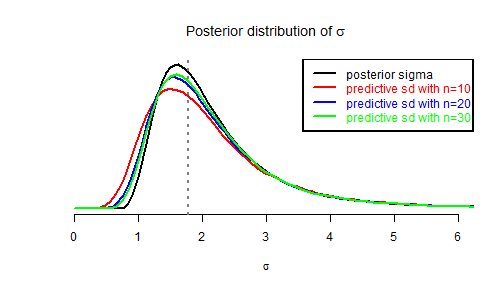
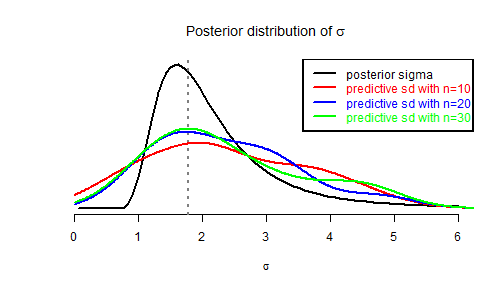
detail

Changed region(s): [[0.1488, 0.25, 0.8929, 0.75], [0.9226, 0.6875, 0.9524, 0.7188], [0.8929, 0.7188, 0.9226, 0.75]]

diff --git a/posts/samplesize_mean.html b/posts/samplesize_mean.html
@@ -236,7 +236,7 @@ over the posterior distribution of \(\sigma\) which is given by
 
 <p>Thus the posterior predictive distribution of \(sd(y^{\text{new}})\) is very easy to simulate:</p>
 
-<pre><code class="r">nsims &lt;- 120000
+<pre><code class="r">nsims &lt;- 12
 sdnew.sims &lt;- array(NA, dim = c(nsims, length(n.range)))
 colnames(sdnew.sims) &lt;- names(n.range)
 for (i in 1:nsims) {
@@ -271,11 +271,11 @@ legend(&quot;topright&quot;, legend = c(&quot;posterior sigma&quot;, legend1, le
 </code></pre>
 
 <pre><code>##   n=3   n=4   n=5   n=6   n=7   n=8   n=9  n=10  n=11  n=12  n=13  n=14 
-## 2.822 2.815 2.820 2.819 2.810 2.814 2.813 2.812 2.798 2.802 2.807 2.803 
+## 3.383 3.289 3.741 3.573 2.790 2.832 3.676 3.480 3.646 3.160 3.452 3.483 
 ##  n=15  n=16  n=17  n=18  n=19  n=20  n=21  n=22  n=23  n=24  n=25  n=26 
-## 2.800 2.799 2.804 2.801 2.802 2.798 2.803 2.796 2.797 2.793 2.794 2.797 
+## 3.978 3.520 3.867 3.486 3.526 3.151 3.647 3.338 3.218 3.247 2.650 3.609 
 ##  n=27  n=28  n=29  n=30 
-## 2.794 2.795 2.793 2.790
+## 3.678 3.510 3.052 3.230
 </code></pre>
 
 <p>But wait, instead of using simulations, we will use exact calculations.</p>

diff --git a/posts/Anova1fixed.html b/posts/Anova1fixed.html
@@ -164,7 +164,8 @@ and then the linear space \(W\) in which \(\mu\) is assumed to lie is
 <p>Moreover, there is a nice orthogonal decomposition of \(W\) corresponding to the usual other parameterization of the model:
 \[\boxed{\mu_i = m + \alpha_i} \quad \text{with } \sum_{i=1}^I\alpha_i=0.\]
 Indeed, writing \(\mathbb{R}^I=[{\bf 1}_I] \oplus {[{\bf 1}_I]}^\perp\) yields the following decomposition of \(\mu\):
-$$\begin{align*}
+$$
+\begin{align*}
 \mu = (\mu_1, \ldots, \mu_I) \otimes {\bf 1}_J &amp; = 
 \begin{pmatrix} 
 m &amp; m &amp; m \

diff --git a/posts/samplesize_mean.md b/posts/samplesize_mean.md
@@ -190,7 +190,7 @@ $$\frac{1}{\sigma^2} \sim {\cal G}\left(\frac{n_0-1}{2},\frac{(n_0-1)sd^2(y_0)}{
 Thus the posterior predictive distribution of $sd(y^{\text{new}})$ is very easy to simulate:
 
 ```r
-nsims <- 120000
+nsims <- 12
 sdnew.sims <- array(NA, dim = c(nsims, length(n.range)))
 colnames(sdnew.sims) <- names(n.range)
 for (i in 1:nsims) {
@@ -228,11 +228,11 @@ apply(sdnew.sims, 2, FUN = function(x) quantile(x, probs = 80/100))
 
 ```
 ##   n=3   n=4   n=5   n=6   n=7   n=8   n=9  n=10  n=11  n=12  n=13  n=14 
-## 2.822 2.815 2.820 2.819 2.810 2.814 2.813 2.812 2.798 2.802 2.807 2.803 
+## 3.383 3.289 3.741 3.573 2.790 2.832 3.676 3.480 3.646 3.160 3.452 3.483 
 ##  n=15  n=16  n=17  n=18  n=19  n=20  n=21  n=22  n=23  n=24  n=25  n=26 
-## 2.800 2.799 2.804 2.801 2.802 2.798 2.803 2.796 2.797 2.793 2.794 2.797 
+## 3.978 3.520 3.867 3.486 3.526 3.151 3.647 3.338 3.218 3.247 2.650 3.609 
 ##  n=27  n=28  n=29  n=30 
-## 2.794 2.795 2.793 2.790
+## 3.678 3.510 3.052 3.230
 ```
 
 But wait, instead of using simulations, we will use exact calculations.

diff --git a/posts/Anova1fixed.md b/posts/Anova1fixed.md
@@ -97,7 +97,8 @@ $$W = \mathbb{R}^I\otimes{\bf 1}_J.$$
 Moreover, there is a nice orthogonal decomposition of $W$ corresponding to the usual other parameterization of the model:
 $$\boxed{\mu_i = m + \alpha_i} \quad \text{with } \sum_{i=1}^I\alpha_i=0.$$
 Indeed, writing $\mathbb{R}^I=[{\bf 1}_I] \oplus {[{\bf 1}_I]}^\perp$ yields the following decomposition of $\mu$:
-$$\begin{align*}
+$$
+\begin{align*}
 \mu = (\mu_1, \ldots, \mu_I) \otimes {\bf 1}_J & = 
 \begin{pmatrix} 
 m & m & m \\
